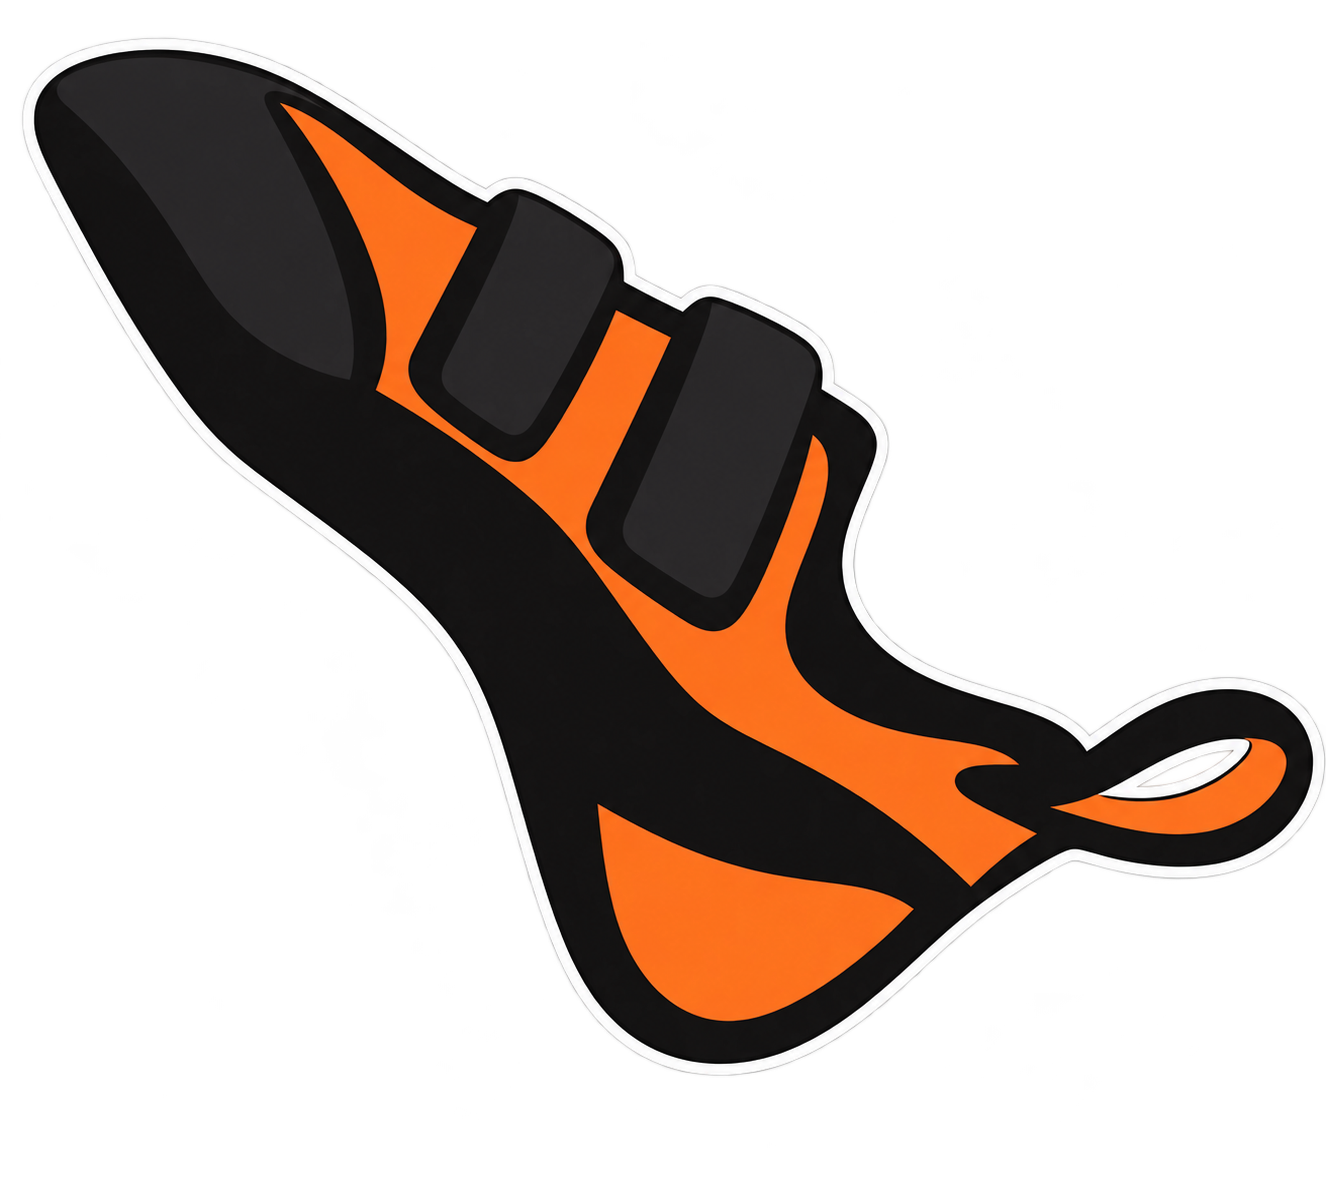
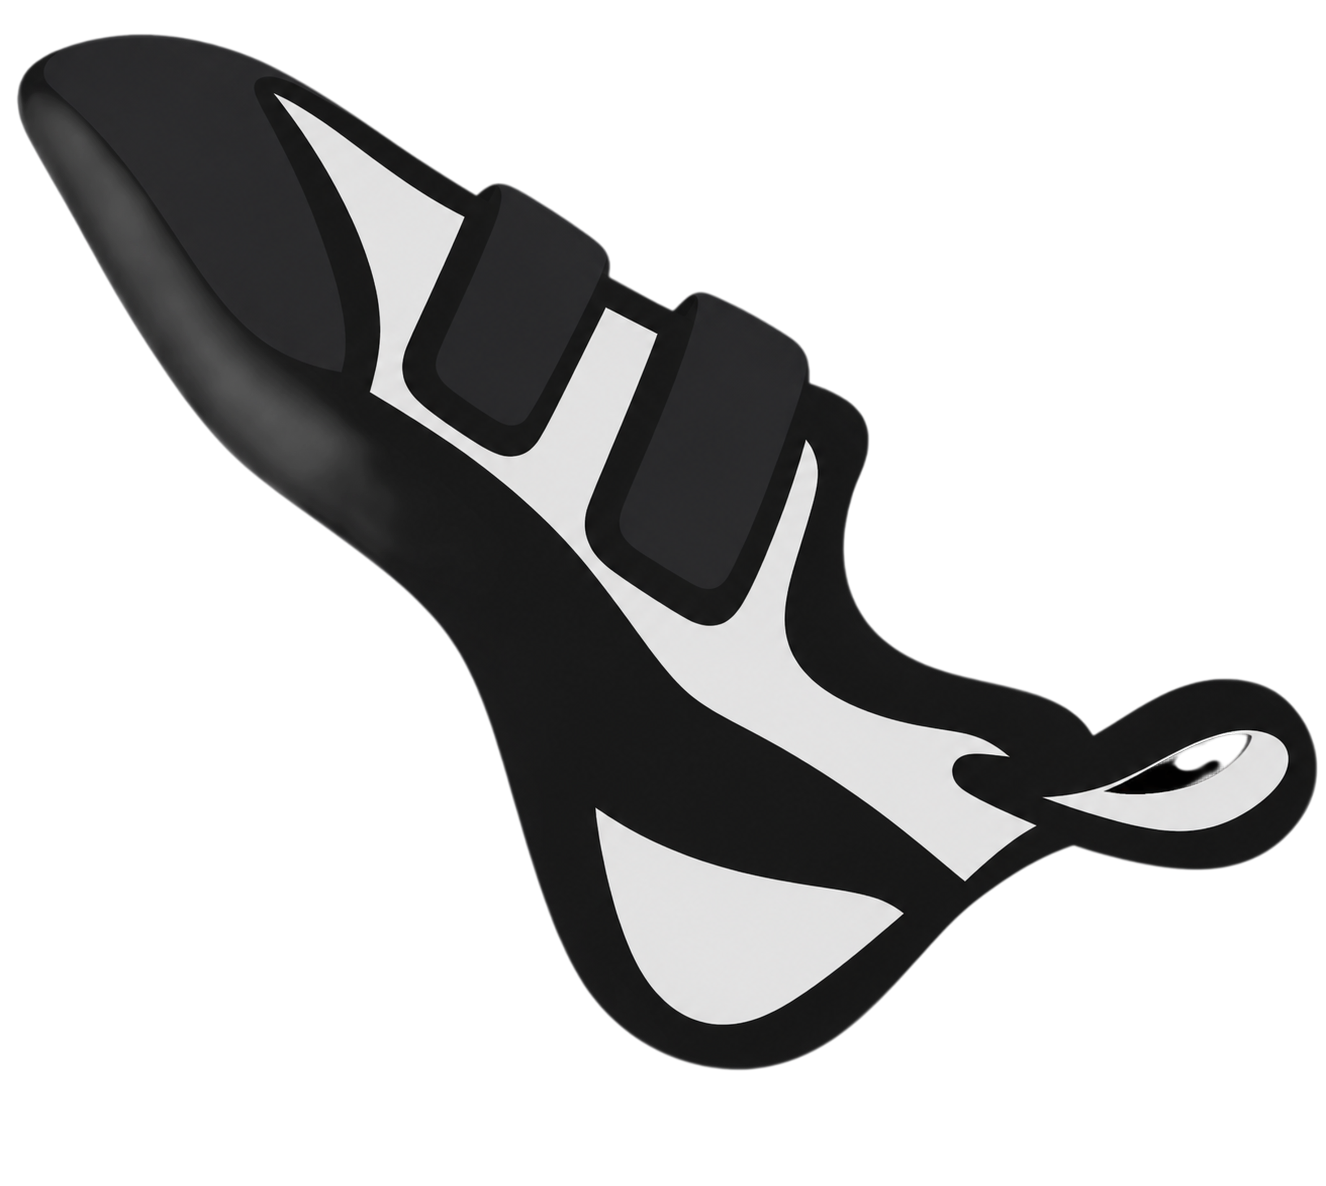
Update landing page styles and assets for improved aesthetics and functionality
- Replaced background and cursor images to enhance visual appeal.
- Adjusted theme color values for better contrast and readability.
- Modified CSS variables and styles for improved layout and responsiveness.
- Updated cursor size for better user interaction experience.

diff --git a/frontend/src/shared/landing.css b/frontend/src/shared/landing.css
@@ -11,7 +11,7 @@
 }
 
 html {
-  --landing-menu: #fff;
+  --landing-menu: #dfdfdf;
   --landing-ink: #1c1c1e;
 }
 
@@ -32,7 +32,7 @@ html.is-night {
   --chrome-ease: var(--ease-out);
   position: relative;
   overflow: hidden;
-  background: #e4e4e4;
+  background: #dfdfdf;
   color: #fff;
   padding: 0;
 }
@@ -85,6 +85,7 @@ html.is-night .screen.landing {
   display: flex;
   flex-direction: column;
   overflow: hidden;
+  container-type: inline-size;
   background: var(--bg);
   border-radius: var(--sheet-top-radius, 0px) var(--sheet-top-radius, 0px) var(--sheet-bottom-radius, 0px) var(--sheet-bottom-radius, 0px);
   corner-shape: squircle;
@@ -269,20 +270,18 @@ html.is-landing-menu #root {
   min-height: 0;
   overflow: hidden;
   aspect-ratio: 1920 / 994;
-  background: #fd7115;
+  background: var(--bg);
   color: #dfdfdf;
+  transition: background-color 200ms linear;
   container-type: inline-size;
-  border-radius: 0 0 calc(100vw * 75 / 1920) calc(100vw * 75 / 1920);
+  border-radius: 0 0 calc(100cqi * 143 / 1920) calc(100cqi * 143 / 1920);
 }
 
 .landing-hero-art {
   position: absolute;
   z-index: 0;
-  left: 0;
-  top: calc(100% * -68.7129 / 994);
-  width: 100%;
-  height: calc(100% * 1080.57 / 994);
-  background: url('/bg-main.png') center / 100% 100% no-repeat;
+  inset: 0;
+  background: url('/bg-main.png') right center / auto 100% no-repeat;
   pointer-events: none;
 }
 
@@ -294,7 +293,7 @@ html.is-landing-menu #root {
   justify-content: flex-start;
   gap: calc(100cqi * 32 / 1920);
   width: max-content;
-  max-width: 58%;
+  max-width: calc(100% - calc(100cqi * 109 / 1920));
   margin: 0;
   padding:
     calc(100cqi * 78 / 1920)
@@ -306,6 +305,7 @@ html.is-landing-menu #root {
 .landing-hero-copy .landing-title {
   margin: 0;
   color: #dfdfdf;
+  transition: color 200ms linear;
   font-size: calc(100cqi * 128 / 1920);
   font-weight: 800;
   letter-spacing: -0.045em;
@@ -315,28 +315,42 @@ html.is-landing-menu #root {
 
 .landing-hero-actions {
   display: flex;
-  flex-direction: column;
-  align-items: stretch;
-  gap: calc(100cqi * 14 / 1920);
-  width: max(260px, calc(100cqi * 360 / 1920));
+  flex-direction: row;
+  flex-wrap: nowrap;
+  align-items: center;
+  gap: calc(100cqi * 16 / 1920);
+  width: max-content;
   max-width: 100%;
+  margin-top: calc(100cqi * 88 / 1920);
 }
 
 .landing-hero-actions .btn {
   display: flex;
+  flex: none;
   align-items: center;
   justify-content: center;
-  gap: 10px;
-  background: #fff;
+  gap: calc(100cqi * 12 / 1920);
+  background: #dfdfdf;
   color: #1c1c1e;
-  width: 100%;
-  height: max(48px, calc(100cqi * 64 / 1920));
-  font-size: max(15px, calc(100cqi * 18 / 1920));
+  width: auto;
+  height: max(56px, calc(100cqi * 96 / 1920));
+  padding: 0 calc(100cqi * 36 / 1920);
+  font-size: max(16px, calc(100cqi * 28 / 1920));
+  white-space: nowrap;
+}
+
+.landing-hero-actions .btn:hover,
+.landing-hero-actions .btn:focus-visible {
+  background: #fff;
+}
+
+html.is-night .landing-hero-copy .landing-title {
+  color: var(--accent);
 }
 
 .landing-store-icon {
-  width: 20px;
-  height: 20px;
+  width: max(22px, calc(100cqi * 32 / 1920));
+  height: max(22px, calc(100cqi * 32 / 1920));
   flex: none;
 }
 
@@ -898,26 +912,25 @@ html.is-night .landing-theme {
   .landing-hero-frame {
     display: block;
     aspect-ratio: auto;
-    border-radius: 0 0 28px 28px;
   }
 
   .landing-hero-art {
     position: relative;
-    top: auto;
+    inset: auto;
     width: 100%;
     height: auto;
     aspect-ratio: 1672 / 941;
-    background: url('/bg-main.png') left center / 100% 100% no-repeat;
+    background: url('/bg-main.png') center / contain no-repeat;
   }
 
   .landing-hero-copy {
     position: absolute;
     top: 0;
     left: 0;
-    width: min(340px, 78%);
-    max-width: 78%;
+    width: calc(100% - 24px);
+    max-width: none;
     margin: 0;
-    padding: 7% 12px 0 20px;
+    padding: 7% 12px 0 16px;
     gap: 14px;
     background: none;
   }
@@ -928,15 +941,26 @@ html.is-night .landing-theme {
     white-space: normal;
   }
 
-  .landing-hero-actions .btn {
-    height: 44px;
-    min-height: 0;
-    font-size: 14px;
-  }
-
   .landing-hero-actions {
     width: 100%;
     min-width: 0;
+    gap: 8px;
+    margin-top: 28px;
+  }
+
+  .landing-hero-actions .btn {
+    flex: 1 1 0;
+    width: auto;
+    min-width: 0;
+    height: 48px;
+    padding: 0 12px;
+    font-size: clamp(12px, 3.2vw, 15px);
+    gap: 6px;
+  }
+
+  .landing-store-icon {
+    width: 18px;
+    height: 18px;
   }
 
   .landing-main {

diff --git a/frontend/src/shared/ui/AppCursor.tsx b/frontend/src/shared/ui/AppCursor.tsx
@@ -1,5 +1,9 @@
 import { useEffect, useRef, useState } from 'react'
 import { createPortal } from 'react-dom'
+import { useSession } from '../../app/session'
+
+const CURSOR_LIGHT = '/cursor-shoe.png'
+const CURSOR_NIGHT = '/cursor-shoe-darck.png'
 
 /** Toe tip of the climbing shoe, as a fraction of cursor-shoe.png. */
 const TIP_X = 8 / 673
@@ -8,10 +12,17 @@ const SHIFT_X = -5
 const TILT_MS = 100
 
 export function AppCursor() {
+  const { night } = useSession()
   const rootRef = useRef<HTMLDivElement>(null)
   const glyphRef = useRef<HTMLImageElement>(null)
   const [on, setOn] = useState(false)
   const [pressed, setPressed] = useState(false)
+  const src = night ? CURSOR_NIGHT : CURSOR_LIGHT
+
+  useEffect(() => {
+    const pending = new Image()
+    pending.src = night ? CURSOR_LIGHT : CURSOR_NIGHT
+  }, [night])
 
   useEffect(() => {
     const root = rootRef.current
@@ -121,7 +132,7 @@ export function AppCursor() {
       <img
         ref={glyphRef}
         className="app-cursor-glyph"
-        src="/cursor-shoe.png"
+        src={src}
         alt=""
         draggable={false}
       />

diff --git a/frontend/src/pages/LandingPage.tsx b/frontend/src/pages/LandingPage.tsx
@@ -336,7 +336,7 @@ export function LandingPage({ mode }: { mode: 'mobile' | 'desktop' }) {
       root.classList.toggle('is-landing-menu', open)
       const theme = document.querySelector('meta[name="theme-color"]')
       const next = open
-        ? root.classList.contains('is-night') ? '#343434' : '#ffffff'
+        ? root.classList.contains('is-night') ? '#343434' : '#dfdfdf'
         : getComputedStyle(root).getPropertyValue('--bg').trim()
       if (theme && next) theme.setAttribute('content', next)
     }

diff --git a/frontend/src/app/session.tsx b/frontend/src/app/session.tsx
@@ -55,7 +55,7 @@ function applyNightTheme(on: boolean) {
   root.classList.remove('is-boot-dark')
   root.style.colorScheme = scheme
   const menuOpen = root.classList.contains('is-landing-menu')
-  replaceMeta('theme-color', menuOpen ? (on ? '#343434' : '#ffffff') : on ? '#1e1e1e' : '#fd7115')
+  replaceMeta('theme-color', menuOpen ? (on ? '#343434' : '#dfdfdf') : on ? '#1e1e1e' : '#fd7115')
   replaceMeta('color-scheme', scheme)
 }
 

diff --git a/frontend/src/shared/styles.css b/frontend/src/shared/styles.css
@@ -67,8 +67,8 @@
 
 .app-cursor-glyph {
   display: block;
-  width: 30px;
-  height: 30px;
+  width: 35px;
+  height: 35px;
   transform-origin: 100% 100%;
   transform: rotate(10deg);
   transition: transform 42ms cubic-bezier(0.5, 0, 1, 1);
